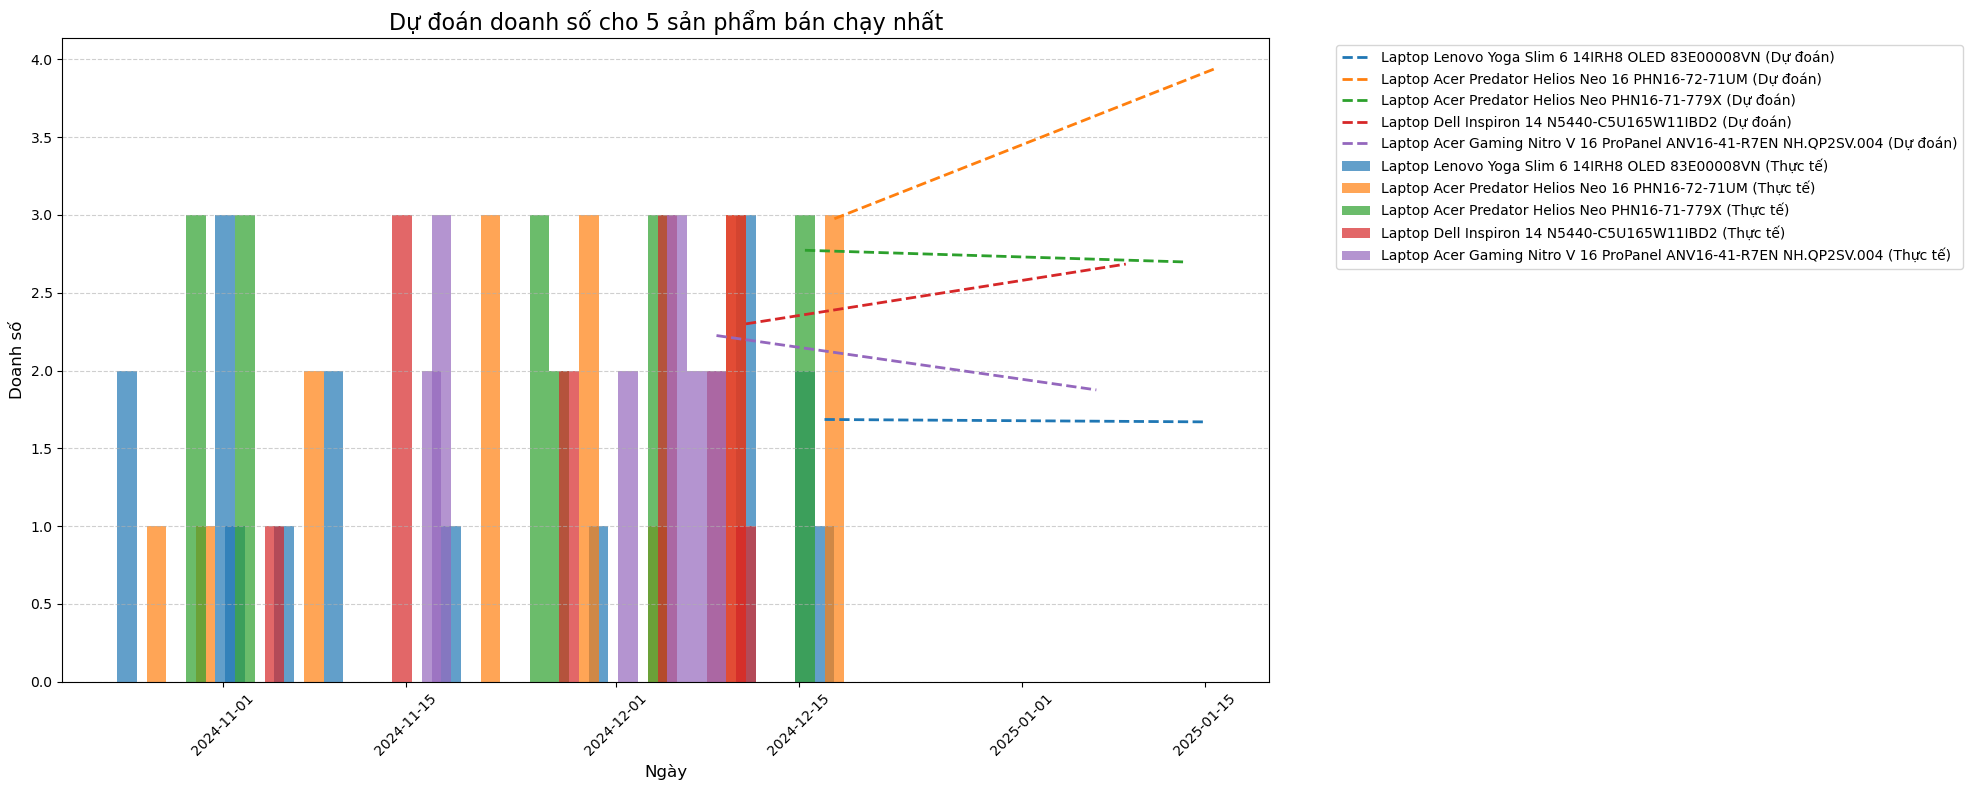
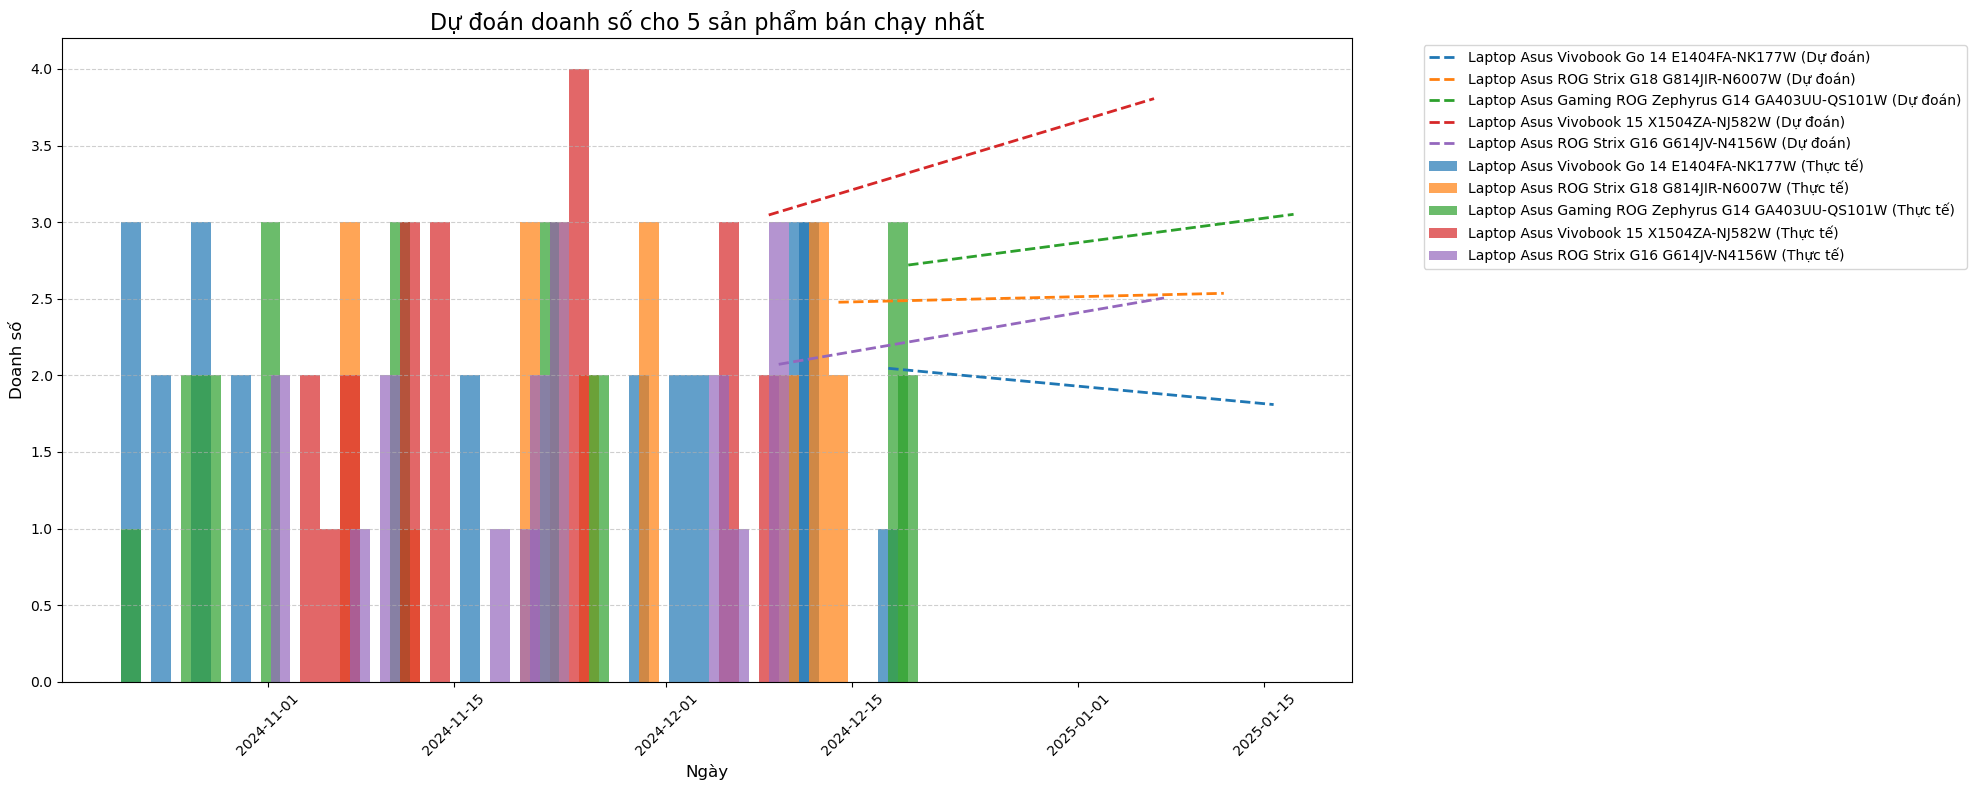
AI

diff --git a/python.py b/python.py
@@ -1,5 +1,4 @@
 from sqlalchemy import create_engine
-from sqlalchemy.orm import sessionmaker
 from sklearn.linear_model import LinearRegression
 import numpy as np
 import matplotlib.pyplot as plt
@@ -11,39 +10,39 @@ import sys
 # Thiết lập mã hóa đầu ra
 sys.stdout.reconfigure(encoding='utf-8')
 
-# Kết nối đến cơ sở dữ liệu
+# === 1. Kết nối cơ sở dữ liệu ===
 db_connection_str = 'mysql+pymysql://root:@localhost:3306/sigmatech'
 db_connection = create_engine(db_connection_str)
 
-# Truy vấn dữ liệu từ bảng order_details
+# === 2. Truy vấn dữ liệu từ cơ sở dữ liệu ===
 query = """
     SELECT 
         od.product_id,
+        l.name AS laptop_name,
         od.created_at AS order_date,
-        SUM(od.quantity) AS total_sales,
-        l.name AS laptop_name
+        SUM(od.quantity) AS total_sales
     FROM 
         order_details od
     JOIN 
         laptops l ON l.id = od.product_id
-    GROUP BY od.product_id, od.created_at, l.name
+    GROUP BY od.product_id, l.name, od.created_at
 """
 data = pd.read_sql(query, con=db_connection)
 
-# Xử lý dữ liệu
+# Xử lý dữ liệu thời gian
 data['order_date'] = pd.to_datetime(data['order_date'])
 
-# Tổng hợp doanh số theo sản phẩm
+# === 3. Xử lý dữ liệu ===
+# Tính tổng doanh số theo sản phẩm
 total_sales_by_product = data.groupby('laptop_name')['total_sales'].sum().sort_values(ascending=False)
-top_5_products = total_sales_by_product.head(5).index
+top_5_products = total_sales_by_product.head(5).index  # Lấy 5 sản phẩm bán chạy nhất
 data_top5 = data[data['laptop_name'].isin(top_5_products)]
 
-# Tạo thư mục lưu hình ảnh
+# === 4. Tạo thư mục lưu biểu đồ ===
 output_dir = os.path.join(os.getcwd(), 'public', 'assets', 'img', 'AI')
 os.makedirs(output_dir, exist_ok=True)
 
-# === Biểu đồ: Dự đoán doanh thu cho 5 sản phẩm bán chạy nhất ===
-output_path_top5 = os.path.join(output_dir, 'combined_chart_top_5.png')
+# === 5. Hồi quy và dự đoán doanh số ===
 plt.figure(figsize=(20, 8))
 colors = sns.color_palette("tab10")
 
@@ -51,7 +50,9 @@ for i, product in enumerate(top_5_products):
     product_data = data_top5[data_top5['laptop_name'] == product].copy()
     product_data['order_date_numeric'] = product_data['order_date'].map(pd.Timestamp.toordinal)
 
+    # Kiểm tra đủ dữ liệu để hồi quy
     if len(product_data) < 2:
+        print(f"Sản phẩm {product} không đủ dữ liệu để dự đoán.")
         continue
 
     # Hồi quy tuyến tính
@@ -60,32 +61,30 @@ for i, product in enumerate(top_5_products):
     model = LinearRegression()
     model.fit(X, y)
 
-    # Tính toán dự đoán
+    # Dự đoán doanh số cho 30 ngày tiếp theo
     future_dates = [product_data['order_date'].max() + pd.Timedelta(days=i) for i in range(30)]
     future_dates_numeric = np.array([date.toordinal() for date in future_dates]).reshape(-1, 1)
     predicted_sales = model.predict(future_dates_numeric)
 
-    # Biểu đồ cột cho doanh số thực tế
+    # Vẽ biểu đồ
     plt.bar(
-        product_data['order_date'],
-        product_data['total_sales'],
-        label=f"{product} (Thực tế)",
-        alpha=0.7,
-        color=colors[i],
+        product_data['order_date'], 
+        product_data['total_sales'], 
+        label=f"{product} (Thực tế)", 
+        color=colors[i], 
+        alpha=0.7, 
         width=1.5
     )
-
-    # Biểu đồ đường cho dự đoán
     plt.plot(
-        future_dates,
-        predicted_sales,
-        label=f"{product} (Dự đoán)",
-        linestyle='--',
-        color=colors[i],
+        future_dates, 
+        predicted_sales, 
+        label=f"{product} (Dự đoán)", 
+        linestyle='--', 
+        color=colors[i], 
         linewidth=2
     )
 
-# Tùy chỉnh giao diện
+# Tùy chỉnh biểu đồ
 plt.xlabel('Ngày', fontsize=12)
 plt.ylabel('Doanh số', fontsize=12)
 plt.title('Dự đoán doanh số cho 5 sản phẩm bán chạy nhất', fontsize=16)
@@ -95,34 +94,34 @@ plt.grid(axis='y', linestyle='--', alpha=0.6)
 plt.tight_layout()
 
 # Lưu biểu đồ
+output_path_top5 = os.path.join(output_dir, 'combined_chart_top_5.png')
 plt.savefig(output_path_top5, bbox_inches='tight')
 plt.close()
-
 print(f"Biểu đồ dự đoán doanh số top 5 sản phẩm đã được lưu tại: {output_path_top5}")
 
-# === Cập nhật cột 'On Top' trong cơ sở dữ liệu ===
+# === 6. Cập nhật cột 'On Top' trong cơ sở dữ liệu ===
+from sqlalchemy.orm import sessionmaker
+
 Session = sessionmaker(bind=db_connection)
 session = Session()
 
 try:
-    # Đặt tất cả giá trị 'On Top' về 0 trước khi cập nhật
+    # Đặt tất cả giá trị 'On Top' về 0
     with db_connection.connect() as conn:
         conn.execute("UPDATE laptop_attribute SET `value` = 0 WHERE `attribute_id` = 4")
 
-    # Lấy danh sách `laptop_id` dựa trên `laptop_name` trong top 5
-    top_5_products_list = list(top_5_products)
-
-    # Truy vấn để lấy `laptop_id` của các sản phẩm
-    query_laptop_ids = f"""
+    # Lấy danh sách `laptop_id` của các sản phẩm top 5
+    query_laptop_ids = """
         SELECT id 
         FROM laptops 
-        WHERE name IN ({','.join(['%s'] * len(top_5_products_list))})
-    """
+        WHERE name IN ({})
+    """.format(','.join(['%s'] * len(top_5_products)))
+    
     with db_connection.connect() as conn:
-        result = conn.execute(query_laptop_ids, top_5_products_list).fetchall()
+        result = conn.execute(query_laptop_ids, list(top_5_products)).fetchall()
         top_5_laptop_ids = [row[0] for row in result]
 
-    # Cập nhật giá trị 'On Top' = 1 cho các sản phẩm trong top 5
+    # Cập nhật `On Top` = 1 cho các sản phẩm top 5
     for laptop_id in top_5_laptop_ids:
         update_query = """
             UPDATE laptop_attribute
@@ -134,7 +133,64 @@ try:
     
     print("Cập nhật thành công cột 'On Top' cho 5 sản phẩm bán chạy nhất.")
 except Exception as e:
-    print(f"Lỗi trong quá trình cập nhật cột 'On Top': {e}")
+    print(f"Lỗi khi cập nhật cột 'On Top': {e}")
 
 # Đóng session
 session.close()
+# === 7. Dự đoán tổng doanh thu theo tuần ===
+# Tính tổng doanh thu hàng tuần
+weekly_sales = data.groupby(pd.Grouper(key='order_date', freq='W'))['total_sales'].sum().reset_index()
+weekly_sales['order_date_numeric'] = weekly_sales['order_date'].map(pd.Timestamp.toordinal)
+
+# Kiểm tra dữ liệu đủ để dự đoán
+if len(weekly_sales) >= 2:
+    # Hồi quy tuyến tính cho doanh thu theo tuần
+    X_weekly = weekly_sales[['order_date_numeric']]
+    y_weekly = weekly_sales['total_sales']
+    model_weekly = LinearRegression()
+    model_weekly.fit(X_weekly, y_weekly)
+
+    # Dự đoán doanh thu cho 12 tuần tiếp theo
+    last_week_date = weekly_sales['order_date'].max()
+    future_week_dates = [last_week_date + pd.DateOffset(weeks=i) for i in range(1, 13)]
+    future_week_dates_numeric = np.array([date.toordinal() for date in future_week_dates]).reshape(-1, 1)
+    predicted_weekly_sales = model_weekly.predict(future_week_dates_numeric)
+
+    # Vẽ biểu đồ
+    plt.figure(figsize=(12, 6))
+    plt.bar(
+        weekly_sales['order_date'], 
+        weekly_sales['total_sales'], 
+        label="Doanh thu thực tế", 
+        color='skyblue', 
+        alpha=0.7, 
+        width=5
+    )
+    plt.plot(
+        future_week_dates, 
+        predicted_weekly_sales, 
+        label="Dự đoán doanh thu", 
+        linestyle='--', 
+        color='orange', 
+        linewidth=2
+    )
+
+    # Tùy chỉnh biểu đồ
+    plt.xlabel('Tuần', fontsize=12)
+    plt.ylabel('Tổng doanh thu', fontsize=12)
+    plt.title('Dự đoán tổng doanh thu theo tuần', fontsize=16)
+    plt.xticks(rotation=45)
+    plt.legend(loc='upper left', fontsize=10)
+    plt.grid(axis='y', linestyle='--', alpha=0.6)
+    plt.tight_layout()
+
+    # Lưu biểu đồ
+    output_path_weekly = os.path.join(output_dir, 'weekly_sales_prediction.png')
+    plt.savefig(output_path_weekly, bbox_inches='tight')
+    plt.close()
+
+    print(f"Biểu đồ dự đoán tổng doanh thu theo tuần đã được lưu tại: {output_path_weekly}")
+else:
+    print("Không đủ dữ liệu để dự đoán tổng doanh thu theo tuần.")
+
+

diff --git a/resources/views/admin/dashboard.blade.php b/resources/views/admin/dashboard.blade.php
@@ -164,7 +164,7 @@
                 <div class="row">
                     <div class="col-md-12">
                         <div class="tile">
-                            <h3 class="tile-title">Dự đoán sản phẩm bán chạy nhất</h3>
+                            <h3 class="tile-title">Doanh số sản phẩm bán chạy nhất</h3>
                             <div class="embed-responsive embed-responsive-16by9">
                                 <img class="embed-responsive-item" src="/assets/img/AI/combined_chart_top_5.png" alt="Dự đoán doanh số">
                             </div>
@@ -172,9 +172,9 @@
                     </div>
                     <div class="col-md-12">
                         <div class="tile">
-                            <h3 class="tile-title">Thống kê 6 tháng doanh thu</h3>
+                            <h3 class="tile-title">Doanh số sản phẩm bán ra theo tuần</h3>
                             <div class="embed-responsive embed-responsive-16by9">
-                                <canvas class="embed-responsive-item" id="barChartDemo"></canvas>
+                                <img class="embed-responsive-item" src="/assets/img/AI/weekly_sales_prediction.png" alt="Dự đoán doanh số">
                             </div>
                         </div>
                     </div>
